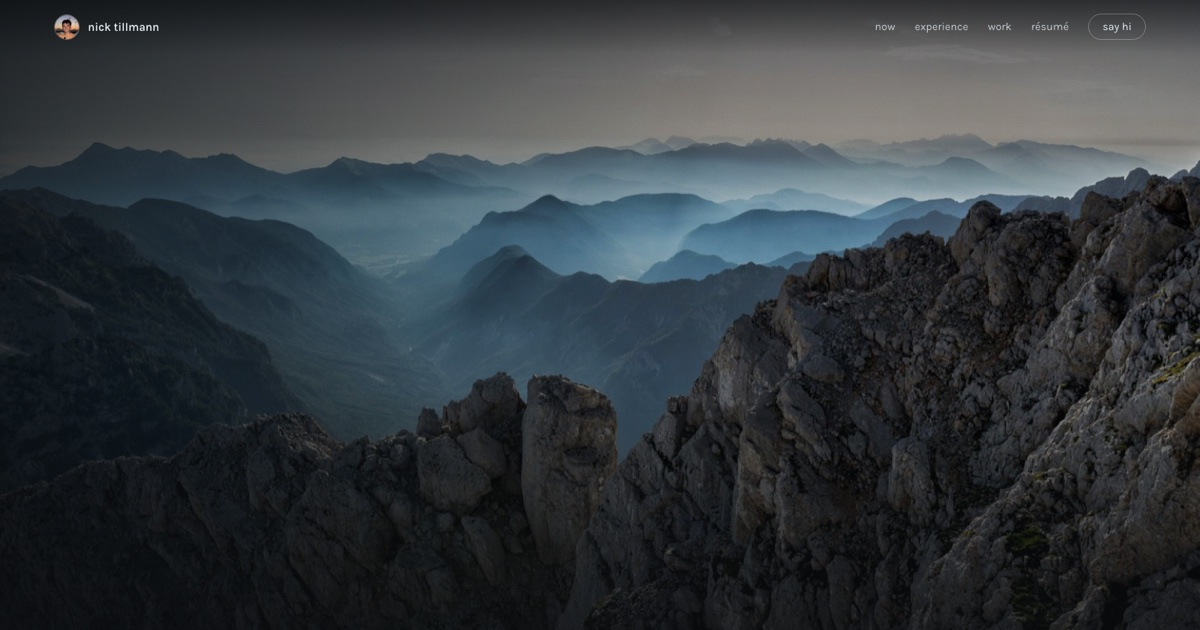
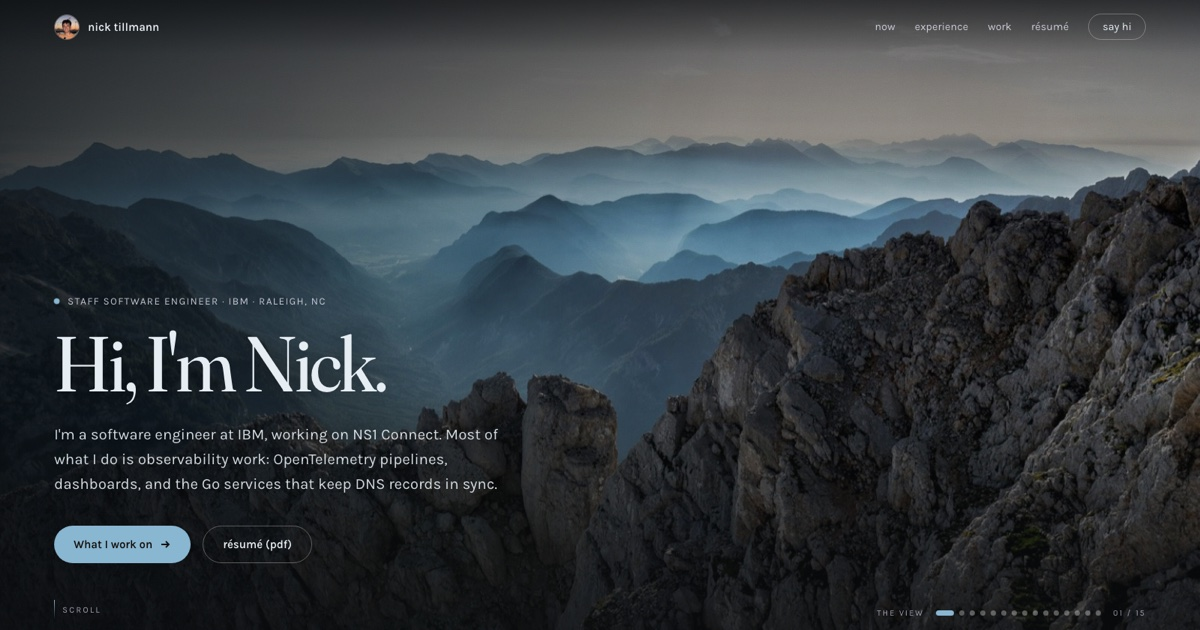
Fix the scrim latching on, and drop five scenes
Walking right to the last photo and back again left every scene darker
than it started. The sampler cached only the two accent colours and
returned early on a cache hit, which skipped the brightness check and
the nav tint. "Snowfield in full sun" is the one photo bright enough to
trip is-bright, so once you reached it the heavy scrim stayed on for
every scene you went back to. The cache now holds everything a photo
decides about the page and one function applies all of it, cached or
not. Verified by walking the picker both directions: no difference.

Also removed scenes 2, 4, 7, 12 and 16. Fifteen left.

diff --git a/redesign/app.js b/redesign/app.js
@@ -74,15 +74,27 @@
 
   /* ---- pull an accent colour out of the photo, so the whole page
          re-tints when you change the scenery ---- */
-  var accentCache = {};
+  var lookCache = {};
+
+  /* everything a photo decides about the page, applied in one place. it used
+     to cache only the two accents and return early on a hit, which skipped
+     the brightness and the bar tint: once you had seen the one bright photo,
+     is-bright stayed on and every scene you went back to kept its heavy
+     scrim. */
+  function applyLook(look) {
+    document.body.classList.toggle('is-bright', look.bright);
+    root.style.setProperty('--nav-tint', look.navTint);
+    if (look.accent) {
+      root.style.setProperty('--accent', look.accent);
+      root.style.setProperty('--accent-2', look.accent2);
+    }
+    // from here on, changing the scenery cross-fades the colours
+    requestAnimationFrame(function () { root.classList.add('accents-ready'); });
+  }
 
   function applyAccent(src) {
     if (reduced) return;
-    if (accentCache[src]) {
-      root.style.setProperty('--accent', accentCache[src][0]);
-      root.style.setProperty('--accent-2', accentCache[src][1]);
-      return;
-    }
+    if (lookCache[src]) { applyLook(lookCache[src]); return; }
     var img = new Image();
     img.onload = function () {
       try {
@@ -127,17 +139,18 @@
           satSum += s;
           count++;
         }
-        // a bright photo needs a heavier scrim or the hero copy stops being readable
-        document.body.classList.toggle('is-bright', (lumaSum / lumaCount) > 0.46);
-
-        // and the bar tints itself to whatever the sky behind it is doing.
-        // .bg__tint has already taken two thirds out of the top of the photo
-        // by this point, so the bar only has to cover the rest.
+        // a bright photo needs a heavier scrim or the hero copy stops being
+        // readable. the bar tints itself off the top rows only, because it
+        // sits on the sky rather than on the whole picture.
         var topLuma = topCount ? topSum / topCount : 0.3;
-        root.style.setProperty('--nav-tint',
-          Math.min(0.52, Math.max(0.26, 0.22 + topLuma * 0.34)).toFixed(3));
+        var look = {
+          bright: (lumaSum / lumaCount) > 0.46,
+          navTint: Math.min(0.52, Math.max(0.26, 0.22 + topLuma * 0.34)).toFixed(3),
+          accent: null,
+          accent2: null
+        };
 
-        if (!count) return;
+        if (!count) { lookCache[src] = look; applyLook(look); return; }
 
         var hue = Math.atan2(y, x) * 180 / Math.PI;
         if (hue < 0) hue += 360;
@@ -151,11 +164,10 @@
         var hue2 = (hue + 44) % 360;
         var sat2 = Math.min(0.72, Math.max(0.46, sat * 0.85));
         var accent2 = 'hsl(' + hue2.toFixed(1) + ' ' + (sat2 * 100).toFixed(0) + '% 76%)';
-        accentCache[src] = [accent, accent2];
-        root.style.setProperty('--accent', accent);
-        root.style.setProperty('--accent-2', accent2);
-        // from here on, changing the scenery cross-fades the colours
-        requestAnimationFrame(function () { root.classList.add('accents-ready'); });
+        look.accent = accent;
+        look.accent2 = accent2;
+        lookCache[src] = look;
+        applyLook(look);
       } catch (e) { /* tainted canvas or no 2d context, so keep the default accent */ }
     };
     img.src = src;

diff --git a/redesign/index.html b/redesign/index.html
@@ -26,28 +26,23 @@
 <link rel="preconnect" href="https://fonts.googleapis.com">
 <link rel="preconnect" href="https://fonts.gstatic.com" crossorigin>
 <link rel="stylesheet" href="https://fonts.googleapis.com/css2?family=Fraunces:opsz,wght,SOFT,WONK@9..144,300..600,0..100,0..1&family=Karla:wght@300..600&family=IBM+Plex+Mono:wght@400;500&display=swap">
-<link rel="stylesheet" href="styles.css?v=1790437179">
+<link rel="stylesheet" href="styles.css?v=1790455528">
 <script>
   // the scenery lives here rather than in app.js because one of them has to be
   // chosen and preloaded before the first paint, or you see one photo load and
   // then get replaced by another
   window.SCENES = [
     ['scene-3.jpg', 'Ridge line above the clouds'],
-    ['scene-ridge-cloud.jpg', 'Peaks breaking through cloud'],
     ['scene-mist-forest.jpg', 'Mist wreathed around a hill'],
-    ['scene-alpenglow.jpg', 'First light on the summits'],
     ['scene-19.jpg', 'Alpine valley at golden hour'],
     ['scene-nz-valley.jpg', 'Valley in New Zealand'],
-    ['scene-8.jpg', 'Storm over the peaks'],
     ['scene-dusk-field.jpg', 'Last light over open country'],
     ['scene-wenatchee.jpg', 'Forest above Lake Wenatchee'],
     ['scene-grey-ridge.jpg', 'Forested ridge under grey sky'],
     ['scene-yosemite.jpg', 'Yosemite Valley'],
-    ['scene-coast-storm.jpg', 'Storm coming in off the coast'],
     ['scene-7.jpg', 'Haze over a long valley'],
     ['scene-glacier.jpg', 'Glacier above cold water'],
     ['scene-lake-reflection.jpg', 'Still water under a warm sky'],
-    ['scene-kerid.jpg', 'Sunset over Kerid'],
     ['scene-21.jpg', 'Cloud caught on a summit'],
     ['scene-15.jpg', 'Dusk over the range'],
     ['scene-frozen-lake.jpg', 'Half-frozen lake below the pines'],
@@ -127,7 +122,7 @@
       <span class="scenes__label">the view</span>
       <div class="scenes__dots" role="group" aria-label="Change the background photo">
       </div>
-      <span class="scenes__count"><span class="js-photo-num">01</span> / <span class="js-photo-total">20</span></span>
+      <span class="scenes__count"><span class="js-photo-num">01</span> / <span class="js-photo-total">15</span></span>
     </div>
   </section>
 
@@ -364,11 +359,11 @@
 <footer class="foot">
   <div class="wrap foot__row">
     <span>© 2026 Nick Tillmann</span>
-    <span class="foot__photo">photo <span class="js-photo-num">01</span> / <span class="js-photo-total">20</span></span>
+    <span class="foot__photo">photo <span class="js-photo-num">01</span> / <span class="js-photo-total">15</span></span>
   </div>
 </footer>
 
 
-<script src="app.js?v=1790437179"></script>
+<script src="app.js?v=1790455528"></script>
 </body>
 </html>

diff --git a/tools/PHOTOS.md b/tools/PHOTOS.md
@@ -1,42 +1,41 @@
 # Background photos
 
-The hero cycles through 20 photographs. `window.SCENES` at the top of
+The hero cycles through 15 photographs. `window.SCENES` at the top of
 `redesign/index.html` is the list; adding a file there is all it takes, and the
 picker, the counter and the random first pick all follow from it.
+
+Each photo has a matching 208px thumbnail in `img/thumb/` for the picker's
+hover preview. Pointing that preview at the full-size file meant every photo
+downloaded on every visit.
 
 On each visit one is chosen at random. `?scene=N` pins a specific one, which is
 how `tools/make-og.sh` gets a screenshot that does not change under it.
 
-## Public domain (13)
+## Public domain (9)
 
 From Unsplash by way of Wikimedia Commons, released as **CC0**: no attribution
 required, commercial use fine. Sources kept here as a record.
 
 | file | source |
 | --- | --- |
-| `img/scene-ridge-cloud.jpg` | [Cloudy Mountains](https://commons.wikimedia.org/wiki/File%3ACloudy_Mountains_%28Unsplash%29.jpg) |
-| `img/scene-alpenglow.jpg` | [Patrick Hendry  h5wAG6971jA](https://commons.wikimedia.org/wiki/File%3APatrick_Hendry_%28Unsplash_h5wAG6971jA%29.jpg) |
 | `img/scene-glacier.jpg` | [Tip of the Antarctic continent  xYFYjUfXvz8](https://commons.wikimedia.org/wiki/File%3ATip_of_the_Antarctic_continent_%28Unsplash_xYFYjUfXvz8%29.jpg) |
 | `img/scene-grey-ridge.jpg` | [Forest under gray sky](https://commons.wikimedia.org/wiki/File%3AForest_under_gray_sky_%28Unsplash%29.jpg) |
 | `img/scene-mist-forest.jpg` | [Mist-wreathed forest on a hill](https://commons.wikimedia.org/wiki/File%3AMist-wreathed_forest_on_a_hill_%28Unsplash%29.jpg) |
 | `img/scene-nz-valley.jpg` | [New Zealand mountain valley](https://commons.wikimedia.org/wiki/File%3ANew_Zealand_mountain_valley_%28Unsplash%29.jpg) |
 | `img/scene-wenatchee.jpg` | [Lake Wenatchee, United States](https://commons.wikimedia.org/wiki/File%3ALake_Wenatchee%2C_United_States_%28Unsplash_-dzQ-X87pos%29.jpg) |
 | `img/scene-yosemite.jpg` | [Scenic view of Yosemite Valley](https://commons.wikimedia.org/wiki/File%3AScenic_view_of_Yosemite_Valley_%28Unsplash%29.jpg) |
-| `img/scene-coast-storm.jpg` | [Coastal storm brewing](https://commons.wikimedia.org/wiki/File%3ACoastal_storm_brewing_%28Unsplash%29.jpg) |
-| `img/scene-kerid.jpg` | [Kerið sunset.](https://commons.wikimedia.org/wiki/File%3AKeri%C3%B0_sunset._%28Unsplash%29.jpg) |
 | `img/scene-dusk-field.jpg` | [30 Hours](https://commons.wikimedia.org/wiki/File%3A30_Hours_%28Unsplash%29.jpg) |
 | `img/scene-lake-reflection.jpg` | [Lake Wenatchee](https://commons.wikimedia.org/wiki/File%3ALake_Wenatchee_%28Unsplash%29.jpg) |
 | `img/scene-frozen-lake.jpg` | [Half-frozen mountain lake](https://commons.wikimedia.org/wiki/File%3AHalf-frozen_mountain_lake_%28Unsplash%29.jpg) |
 
-## Provenance unknown (7)
+## Provenance unknown (6)
 
-`scene-3`, `scene-7`, `scene-8`, `scene-15`, `scene-17`, `scene-19` and
-`scene-21` were already in the project when this redesign started. They are not
+`scene-3`, `scene-7`, `scene-15`, `scene-17`, `scene-19` and `scene-21` were already in the project when this redesign started. They are not
 Nick's own photographs and no licence is recorded for them.
 
 Before the site goes public these should be traced to a licence that permits the
 use, or replaced. Replacing them is not much work: the same Wikimedia Commons
-query that found the other thirteen has hundreds more results. It was a search for
+query that found the other nine has hundreds more results. It was a search for
 `intitle:Unsplash` plus landscape terms, filtered to CC0 files at least 2600px
 wide, then scored for a dark frame, restrained saturation and a bottom half
 darker than the top.
